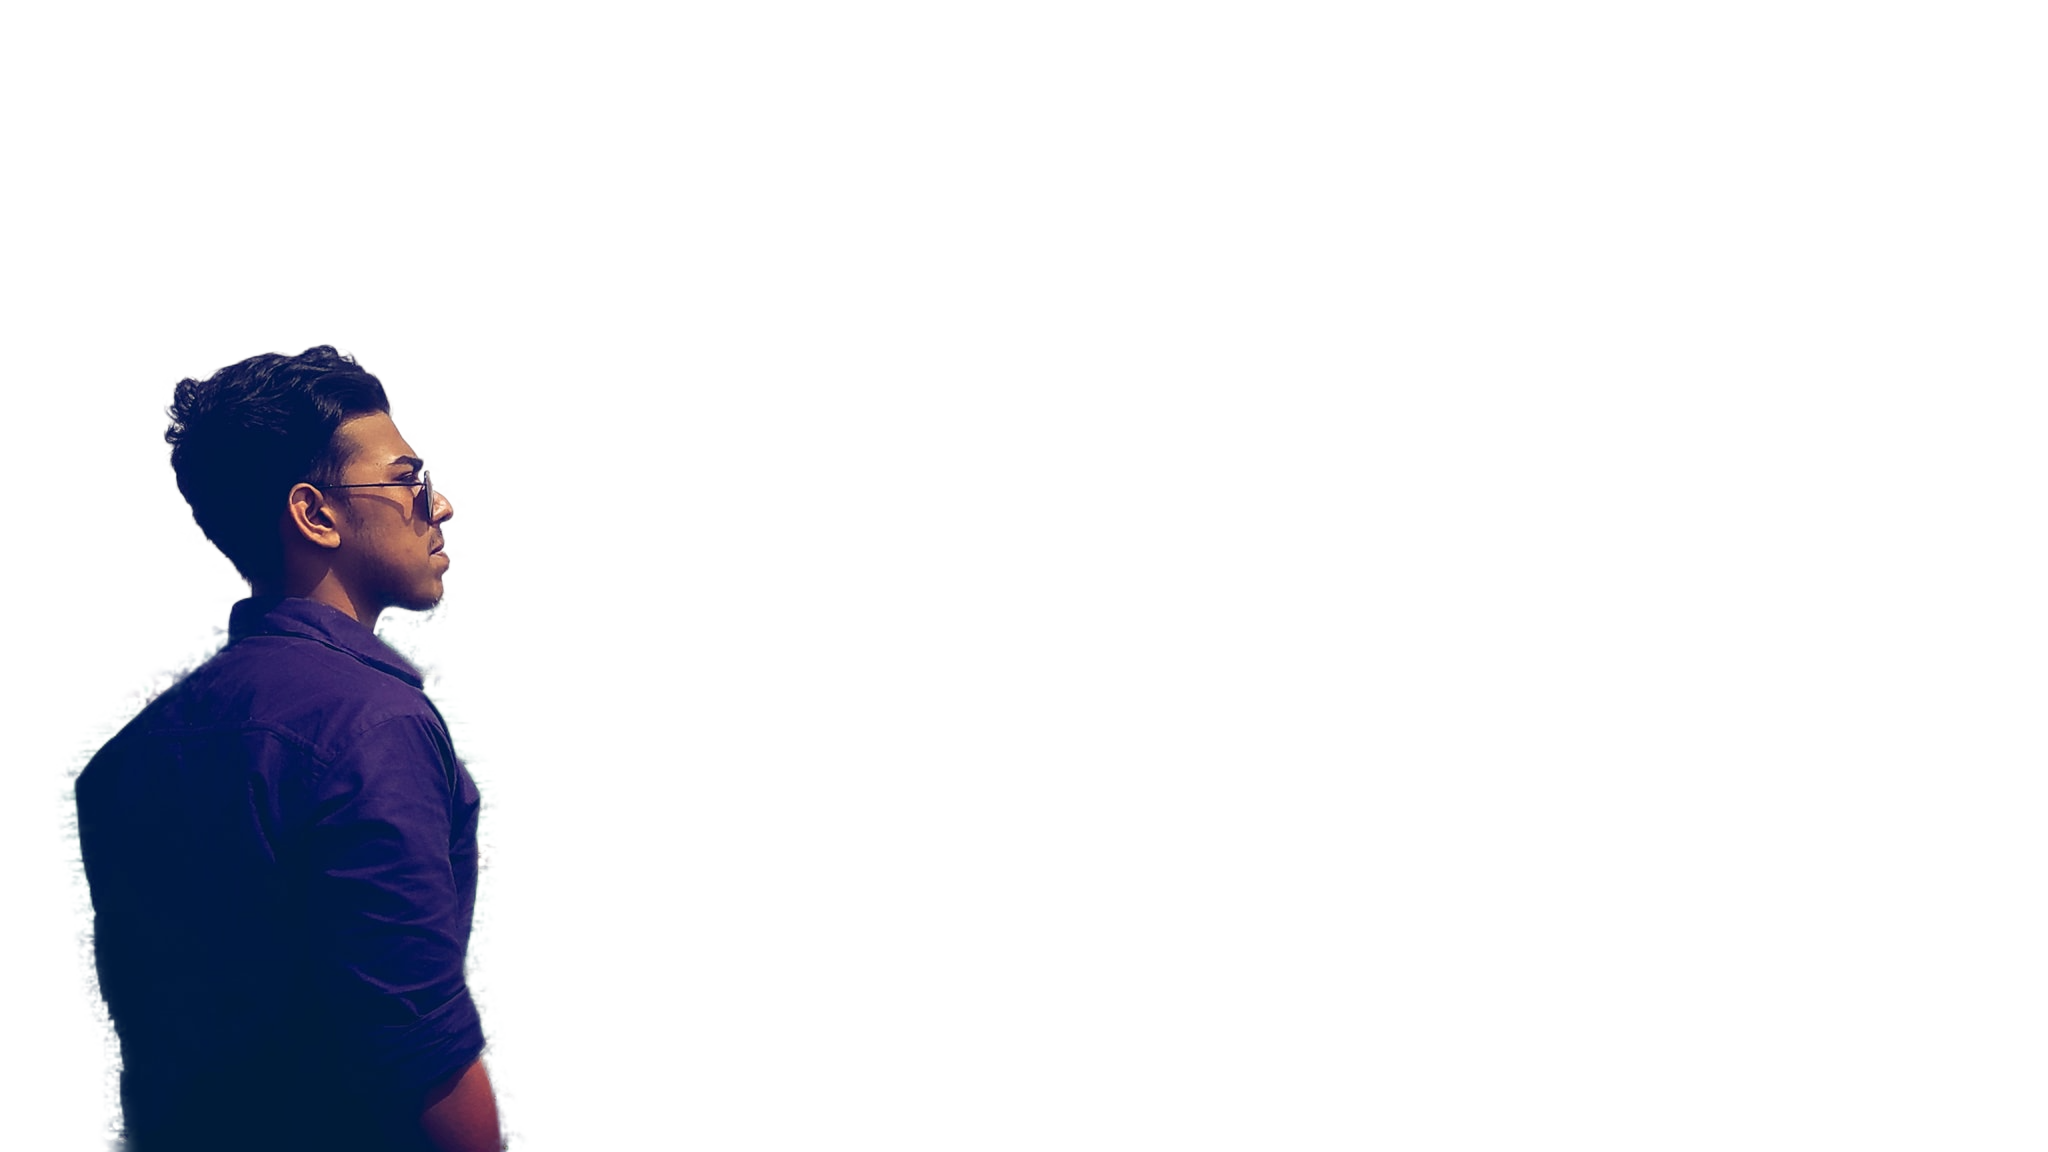
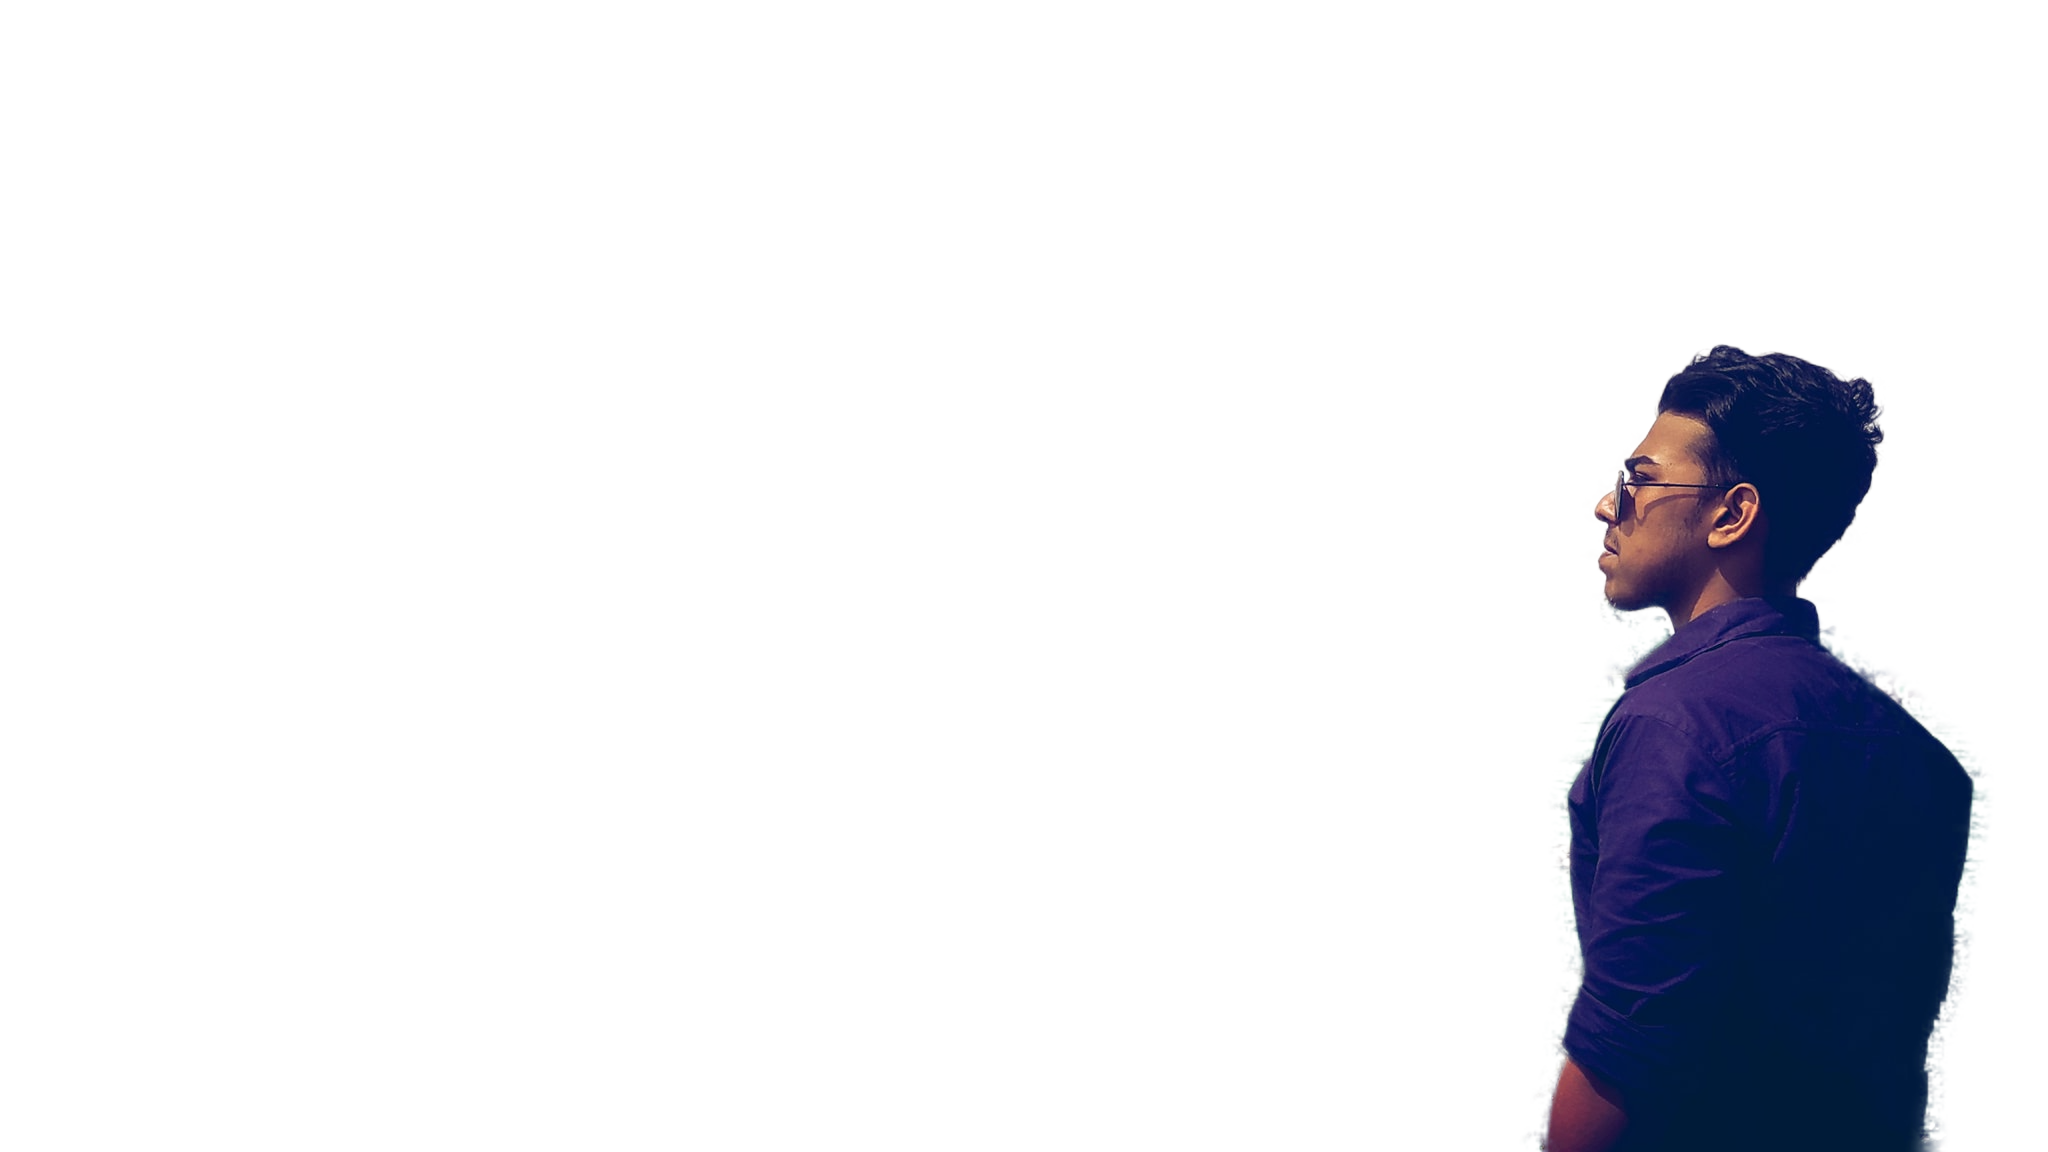
portfolio

Changed region(s): [[0.75, 0.2812, 0.9688, 1.0], [0.0312, 0.2812, 0.25, 1.0]]

diff --git a/index.html b/index.html
@@ -1,0 +1,25 @@
+<!DOCTYPE html>
+<html lang="en">
+<head>
+    <meta charset="UTF-8">
+    <meta name="viewport" content="width=device-width, initial-scale=1.0">
+    <title>Portfolio</title>
+    <link rel="stylesheet" href="style.css">
+    <link rel="preconnect" href="https://fonts.gstatic.com">
+<link href="https://fonts.googleapis.com/css2?family=Poppins:wght@300&display=swap" rel="stylesheet">
+</head>
+<body>
+    <section>
+        <div class="half-width">
+            <h1>Welcome To</h1>
+            <h1><span class="name-highlight">Riaz Ahmed</span> Portfolio</h1>
+            <h2>World-Class Professional Web Developer</h2>
+            <p>I'm a web developer. I spend my whole day, practically every day, experimenting with HTML, CSS, and JavaScript; dabbling with Python and Ruby; and inhaling a wide variety of potentially useless information through a few hundred RSS feeds. I build websites that delight and inform. I do it well.</p>
+        </div>
+        <div class="half-width">
+            <img src="images/image 12.png" alt="">
+        </div>
+    </section>
+    
+</body>
+</html>

diff --git a/style.css b/style.css
@@ -1,0 +1,20 @@
+h1{
+    font-size: 50px;
+    
+}
+.name-highlight{
+    color: blueviolet;
+}
+body{
+    font-family: 'Poppins', sans-serif;
+}
+.half-width{
+    width: 40%;
+    float: left;
+    margin-left: 5%;
+    padding-left: 2%;
+}
+.half-width img{
+    width: 100%;
+    margin-top: 2%;
+}
